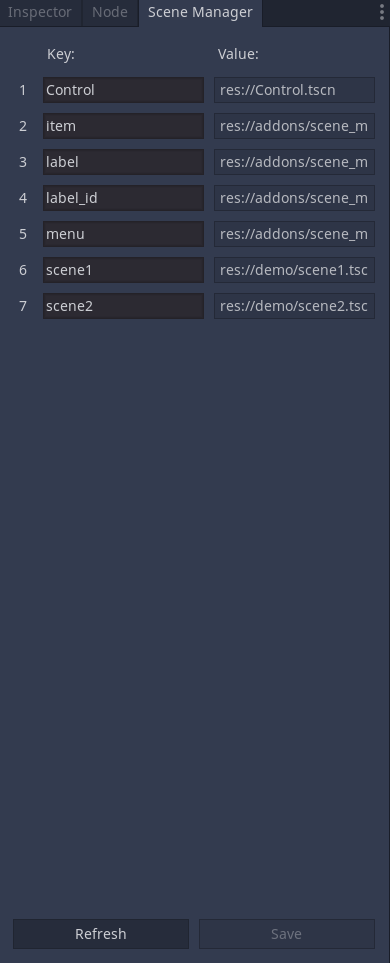
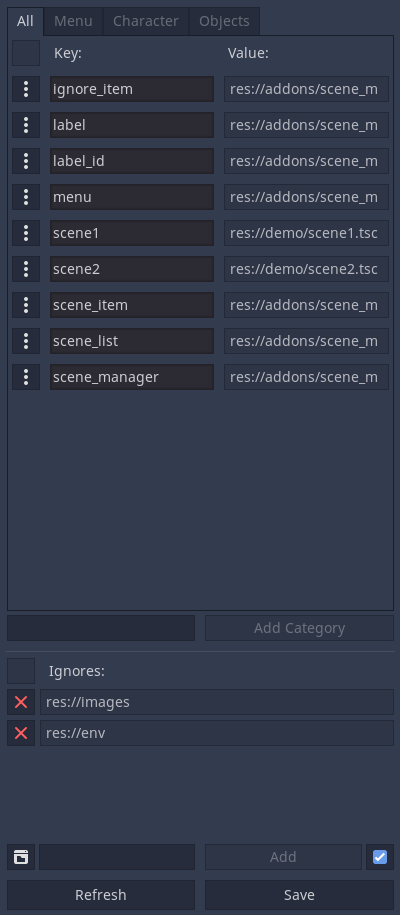
📖 docs: 1.2.0 release update

diff --git a/README.md b/README.md
@@ -17,6 +17,8 @@ Under development...
 * [X] Memory performance happened
 * [X] Scene transitions added
 * [X] Ignore folder added in tool
+* [X] Categorization added in tool
+* [X] Ignore folder section can hide optionally
 
 ## How To Use?
 
@@ -31,22 +33,30 @@ Under development...
 
 ## Tool View
 
-This is the tool that you will see on your right side of the godot editor after activating `scene_manager` plugin:
+This is the tool that you will see on your right side of the godot editor after activating `scene_manager` plugin. By **Add Category** button under scenes categories you can create new categories.
 
 <p align="center">
 <img src="images/tool.png"/>
 </p>
 
 ### Double key checker:
-If editing of a scene key causes two keys of two different scenes match, both of them will get red color and you have to fix the duplication, otherwise the plugin does not work properly as you expect it to work.
+If editing of a scene key causes at least two keys of another scene match, both of them will get red color and you have to fix the duplication, otherwise the plugin does not work properly as you expect it to work.
 
 <p align="center">
 <img src="images/tool_double_key.png"/>
 </p>
 
+### Ignore Folder:
+
+Every folder that is added inside this section will be ignored and scenes inside them will not get included inside scenes categories section(the section above this section).
+
+<p align="center">
+<img src="images/ignore.png"/>
+</p>
+
 ## Demo
 
-The only amount of written code for this demo is just 6 lines:
+The only amount of written code for this demo is just 10 lines:
 
 <p align="center">
 <img src="./images/demo.gif"/>

diff --git a/CHANGELOG.rst b/CHANGELOG.rst
@@ -4,8 +4,11 @@ CHANGELOG
 UNRELEASED
 ----------
 
-* 🎉 feat: categorization added
-* 🎉 feat: ignore folder feature added
+1.2.0 (2022-03-16)
+------------------
+
+* feat: categorization added
+* feat: ignore folder feature added
 
 1.1.0 (2022-03-14)
 ------------------
